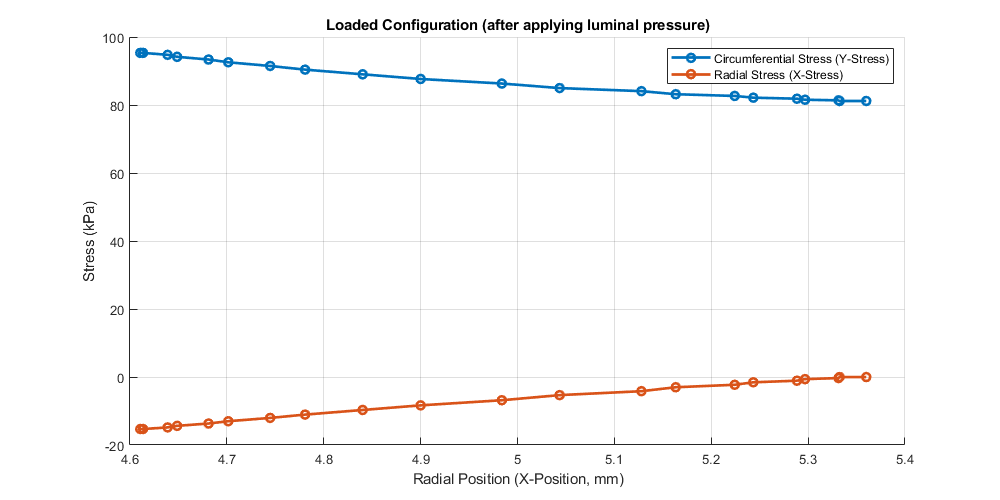
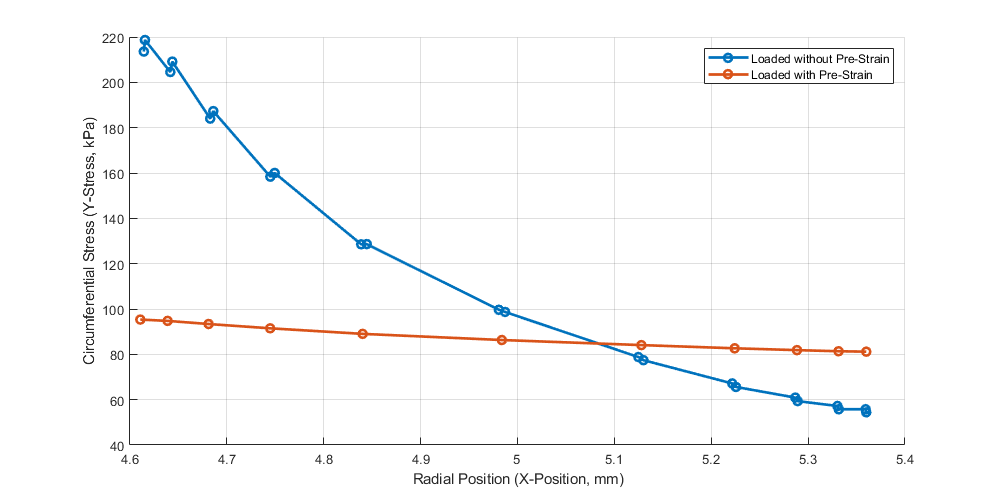
Finish hw4

diff --git a/BME6250-Biomech2/Homework4/hw4_BME6250.m b/BME6250-Biomech2/Homework4/hw4_BME6250.m
@@ -28,12 +28,12 @@ hold off;
 %% Problem 2a
 clc; clear; close all;
 
-artery_data = readtable('.\data\hw4prb2a_CircumRadialStress_Data.csv');
+loaded_woPS = readtable('.\data\hw4prb2a_CircumRadialStress_Data.csv');
 
 figure();
 hold on;
-plot(artery_data.x_pos, artery_data.y_stress, '-o', 'LineWidth', 2)
-plot(artery_data.x_pos, artery_data.x_stress, '-o', 'LineWidth', 2)
+plot(loaded_woPS.x_pos, loaded_woPS.y_stress, '-o', 'LineWidth', 2)
+plot(loaded_woPS.x_pos, loaded_woPS.x_stress, '-o', 'LineWidth', 2)
 xlabel('Radial Position (X-Position, mm)');
 ylabel('Stress (kPa)');
 grid on;
@@ -41,39 +41,41 @@ set(gcf,'position',[200, 200, 1000, 500])
 legend('Circumferential Stress (Y-Stress)', 'Radial Stress (X-Stress)');
 hold off;
 
-%% Problem 2b & 2c
+%% Problem 2b
 clc; clear; close all;
 
-artery_data = readtable('.\data\hw4prb2c_CircumRadialResStress_Data.csv');
+loaded_wPS = readtable('.\data\hw4prb2c_CircumResStress_Data1.csv');
 
 figure();
 hold on;
-plot(artery_data.x_pos1, artery_data.y_stress1, '-o', 'LineWidth', 2)
-plot(artery_data.x_pos1, artery_data.x_stress1, '-o', 'LineWidth', 2)
+plot(loaded_wPS.x, loaded_wPS.y_stress, '-o', 'LineWidth', 2)
 xlabel('Radial Position (X-Position, mm)');
-ylabel('Stress (kPa)');
+ylabel('Circumferential Stress (Y-Stress, kPa)');
 grid on;
 set(gcf,'position',[200, 200, 1000, 500])
-title('Unloaded Configuration (after applying pre-strain)');
-legend('Circumferential Stress (Y-Stress)', 'Radial Stress (X-Stress)', 'Location', 'northwest');
 hold off;
 
+%% Problem 2c
+clc; clear; close all;
+
+loaded_woPS = readtable('.\data\hw4prb2a_CircumRadialStress_Data.csv');
+loaded_wPS = readtable('.\data\hw4prb2c_CircumResStress_Data2.csv');
+
 figure();
 hold on;
-plot(artery_data.x_pos2, artery_data.y_stress2, '-o', 'LineWidth', 2)
-plot(artery_data.x_pos2, artery_data.x_stress2, '-o', 'LineWidth', 2)
+plot(loaded_woPS.x_pos, loaded_woPS.y_stress, '-o', 'LineWidth', 2)
+plot(loaded_wPS.x, loaded_wPS.y_stress, '-o', 'LineWidth', 2)
 xlabel('Radial Position (X-Position, mm)');
-ylabel('Stress (kPa)');
+ylabel('Circumferential Stress (Y-Stress, kPa)');
 grid on;
 set(gcf,'position',[200, 200, 1000, 500])
-title('Loaded Configuration (after applying luminal pressure)');
-legend('Circumferential Stress (Y-Stress)', 'Radial Stress (X-Stress)');
+legend('Loaded without Pre-Strain', 'Loaded with Pre-Strain');
 hold off;
 
 %% Problem 3a
 clc; clear; close all;
 
-fl_data = readtable('.\Hill_Tutorial\hw4prb3a_HillModelFL_Data.csv');
+fl_data = readtable('.\Hill_Tutorial\data\hw4prb3a_HillModelFL_Data.csv');
 
 figure();
 hold on;
@@ -93,7 +95,7 @@ hold off;
 %% Problem 3b
 clc; clear; close all;
 
-fv_data = readtable('.\Hill_Tutorial\hw4prb3b_HillModelFV_Data.csv');
+fv_data = readtable('.\Hill_Tutorial\data\hw4prb3b_HillModelFV_Data.csv');
 
 f = [50, 40, 30, 20, 10, 5, 2]';
 v = table2array(fv_data(end, 2:end))';
@@ -111,7 +113,7 @@ hold off;
 %% Problem 4
 clc; clear; close all;
 
-apex_data = readtable('.\Cardiac Mechanics Benchmark Problems\hw4prb4_Apex_Z-PosData.csv');
+apex_data = readtable('.\Cardiac Mechanics Benchmark Problems\data\hw4prb4_Apex_Z-PosData.csv');
 
 figure();
 hold on;
